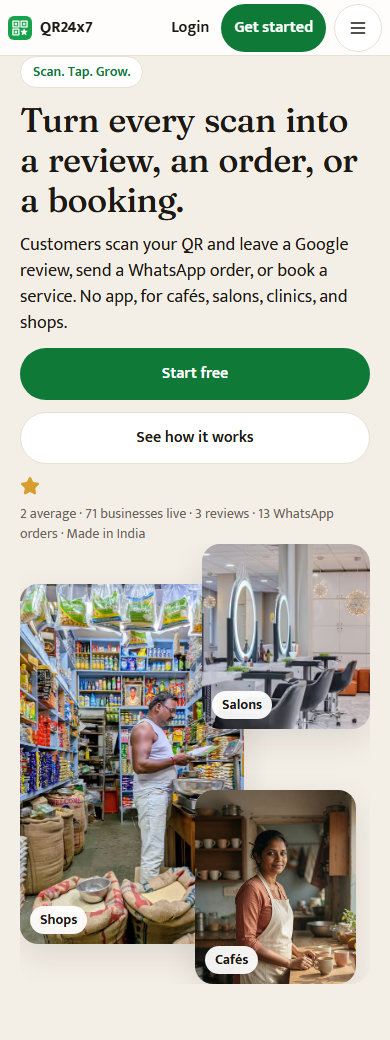
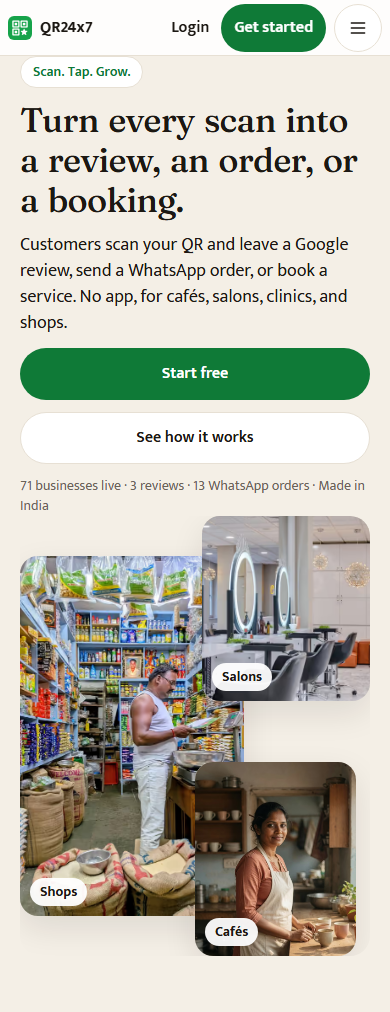
fix(landing): hide the public average until twenty reviews exist
Three reviews make an accurate 2.0 look like the product score. Keep the businesses, review, and order counts, and show the average only once the site has at least 20 reviews.

diff --git a/lib/landing/proof.ts b/lib/landing/proof.ts
@@ -25,6 +25,12 @@ export type LandingTrust = {
   orderCount: number | null;
 };
 
+/**
+ * Site-wide reviews required before the public page shows an average.
+ * A smaller sample stays a count. The score itself stays hidden.
+ */
+const PUBLIC_RATING_MIN_REVIEWS = 20;
+
 /** Real counts only. Empty database fields stay null so the page can hide them. */
 export async function landingTrust(): Promise<LandingTrust> {
   const [businesses, reviews, orders] = await Promise.all([
@@ -34,10 +40,11 @@ export async function landingTrust(): Promise<LandingTrust> {
   ]);
   const reviewCount = reviews._count._all;
   const average = reviews._avg.rating;
+  const ratingReady = reviewCount >= PUBLIC_RATING_MIN_REVIEWS && average != null;
   return {
     businesses: businesses > 0 ? businesses : null,
     reviewCount: reviewCount > 0 ? reviewCount : null,
-    rating: reviewCount > 0 && average != null ? Math.round(average * 10) / 10 : null,
+    rating: ratingReady ? Math.round(average * 10) / 10 : null,
     orderCount: orders > 0 ? orders : null
   };
 }
